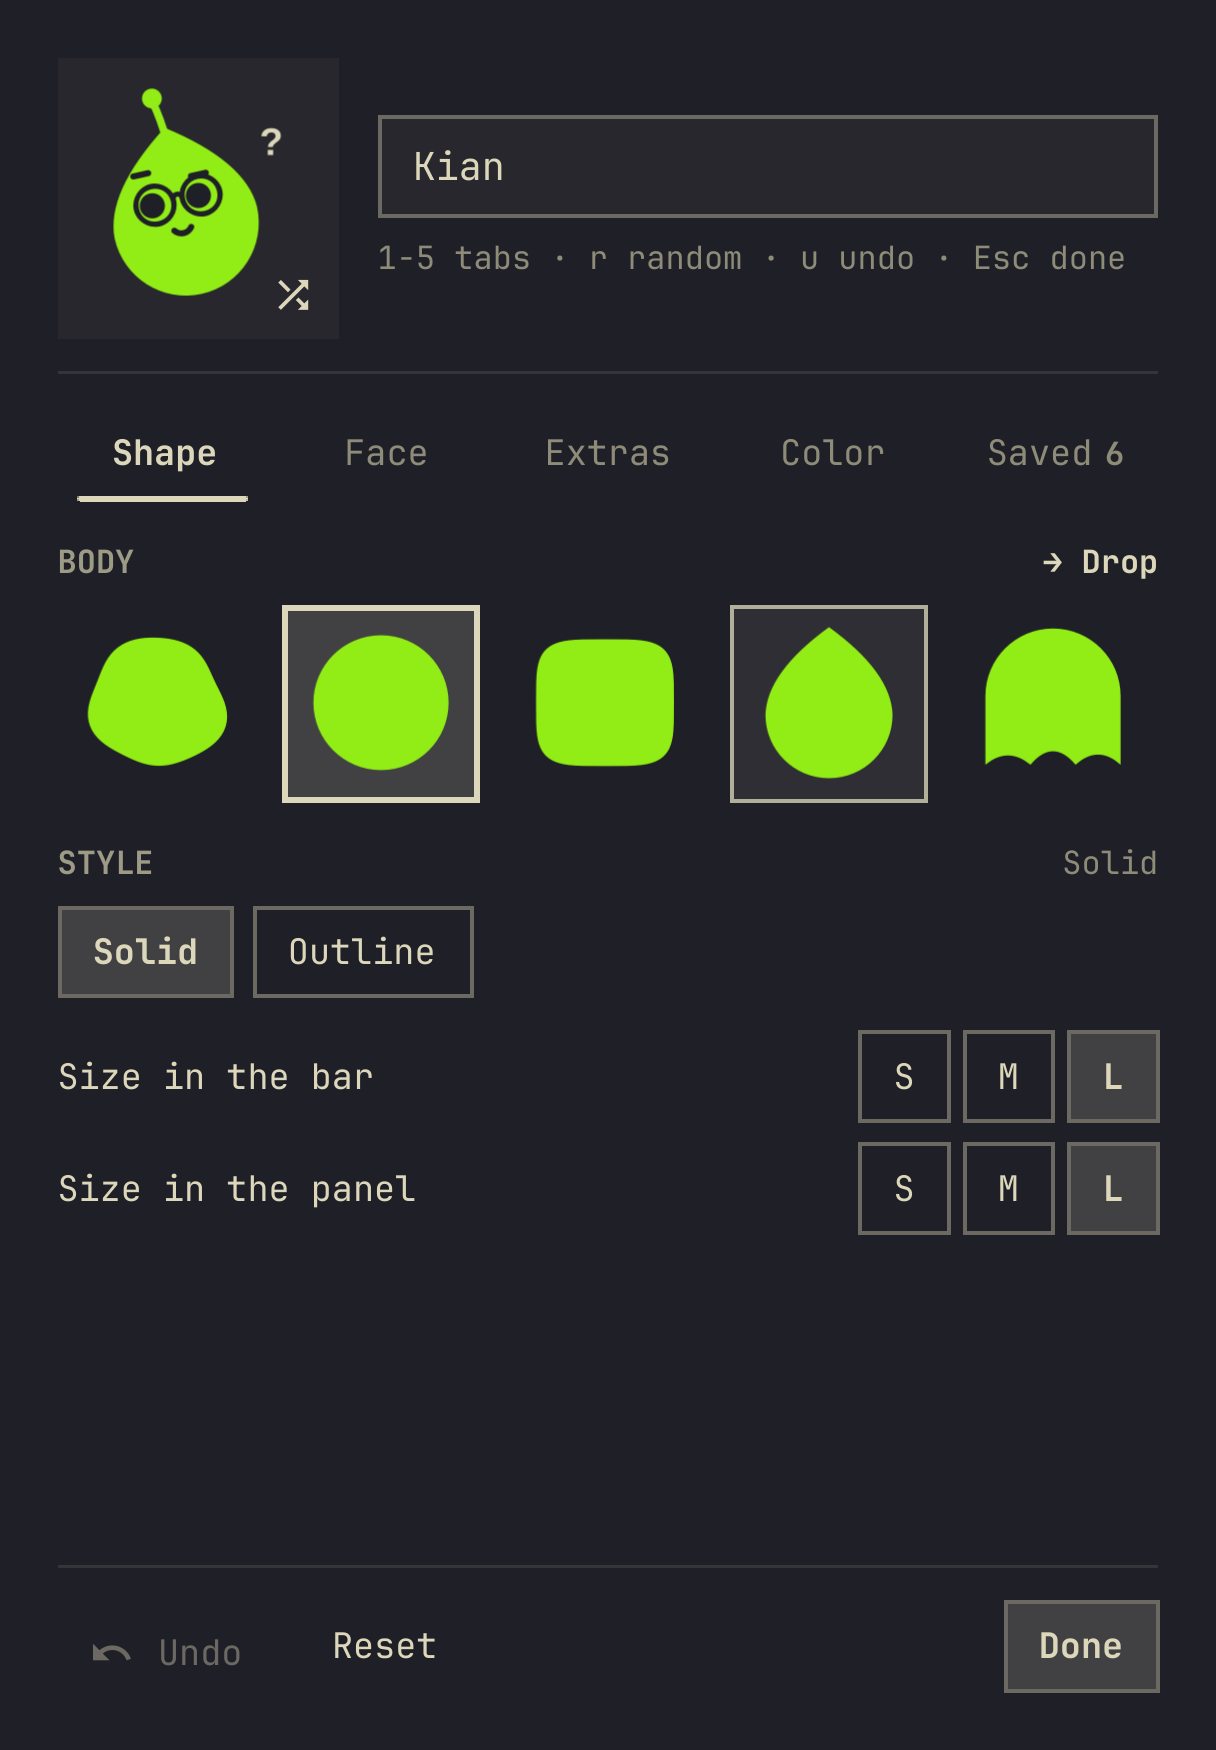
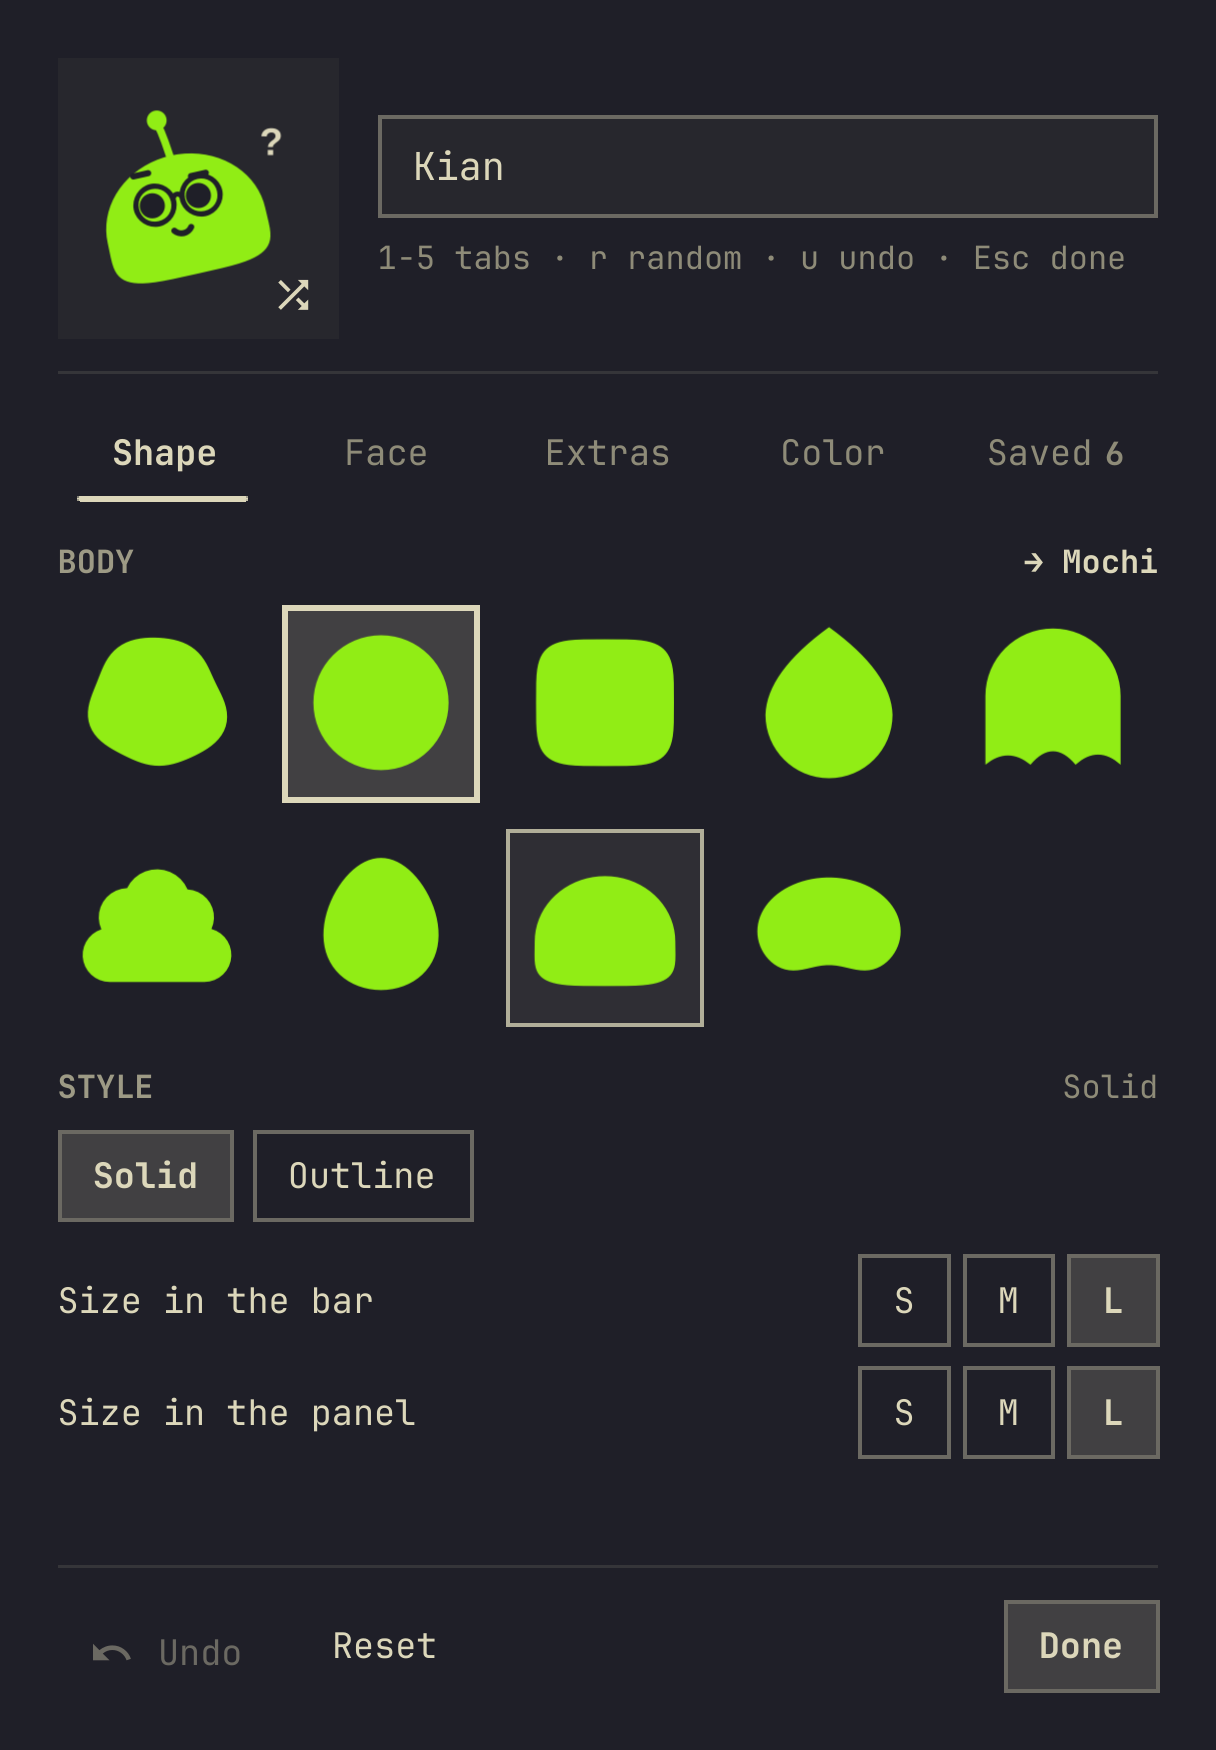
Add cloud, egg, mochi and bean bodies
Cloud traces the outer arcs of five puffs (the top ones swell in turn) over
a flat base; egg widens toward its base; mochi is a dome slumped on a flat
base that jiggles; bean is a kidney bean resting on its two ends. All squash,
breathe and come in solid and outline.

A per-body head fit (top height, side spread, hat scale) replaces the drop
special case, so ears, bows, flowers and hats, seasonal ones included, sit
right on the egg's narrow top and the lower mochi / bean / cloud heads. The
existing bodies keep their exact anchors.

The editor's body chips wrap five to a row (keyboard rows and the Shape page
height follow); shuffle and sanitize pick the new bodies up from the traits.

diff --git a/BlobAvatar.qml b/BlobAvatar.qml
@@ -528,6 +528,50 @@ Item {
         ctx.quadraticCurveTo(x0 - w / 2, bottom - lift * 2, x0 - w, bottom)
       }
       ctx.closePath()
+    } else if (shape === "cloud") {
+      cloudPath(ctx, cx, cy, r, sx, sy, t)
+    } else if (shape === "egg") {
+      // An ellipse whose width grows downward: narrow top, round heavy base.
+      for (var e = 0; e <= 72; e++) {
+        var ea = e / 72 * Math.PI * 2
+        var ec = Math.cos(ea), es = Math.sin(ea)
+        var ex = cx + r * 0.84 * sx * ec * (1 + 0.17 * es)
+        var ey = cy + r * sy * (-0.04 + 0.98 * es)
+        if (e === 0) ctx.moveTo(ex, ey); else ctx.lineTo(ex, ey)
+      }
+      ctx.closePath()
+    } else if (shape === "mochi") {
+      // A soft dome slumped on a flat base, spreading a little toward it like
+      // a daifuku sitting on a plate. The dome jiggles with the wobble clock.
+      var eq = cy + r * 0.22 * sy
+      var dome = r * 0.97 * sy * (1 + 0.025 * root.face.wobble * Math.sin(t * 3))
+      for (var m = 0; m <= 72; m++) {
+        var ma = m / 72 * Math.PI * 2
+        var mc = Math.cos(ma), ms = Math.sin(ma)
+        var mx, my
+        if (ms < 0) {
+          mx = cx + r * 1.04 * sx * mc
+          my = eq + dome * ms
+        } else { // superellipse quadrant: flat bottom, full lower sides
+          mx = cx + r * 1.04 * (1 + 0.05 * ms) * sx * Math.sign(mc) * Math.pow(Math.abs(mc), 0.5)
+          my = eq + r * 0.66 * sy * Math.pow(ms, 0.5)
+        }
+        if (m === 0) ctx.moveTo(mx, my); else ctx.lineTo(mx, my)
+      }
+      ctx.closePath()
+    } else if (shape === "bean") {
+      // A kidney bean lying down: an oval with a dent under the belly, so
+      // it rests on its two rounded ends.
+      for (var v = 0; v <= 90; v++) {
+        var va = v / 90 * Math.PI * 2
+        var vc = Math.cos(va), vs = Math.sin(va)
+        var uy = 0.8 * vs
+        if (vs > 0) uy -= 0.3 * vs * Math.exp(-(vc * vc) / 0.3)
+        var vx = cx + r * sx * 1.06 * vc
+        var vy = cy + r * sy * (0.07 + uy)
+        if (v === 0) ctx.moveTo(vx, vy); else ctx.lineTo(vx, vy)
+      }
+      ctx.closePath()
     } else { // blob: wobbly organic outline
       var steps = 90
       var wa = root.face.wobble
@@ -543,8 +587,68 @@ Item {
     }
   }
 
+  // Cloud puffs as [x, y, radius] in units of r, left to right over the top.
+  // The outline runs along each puff's outer arc, from where it meets the
+  // previous puff to where it meets the next, then closes with a flat base
+  // (the end puffs share their lowest point).
+  readonly property var cloudPuffs: [[-0.7, 0.42, 0.4], [-0.43, -0.14, 0.42], [0, -0.36, 0.5], [0.43, -0.14, 0.42], [0.7, 0.42, 0.4]]
+
+  function cloudPath(ctx, cx, cy, r, sx, sy, t) {
+    var p = root.cloudPuffs
+    var n = p.length
+    var c = []
+    for (var i = 0; i < n; i++) {
+      // The top puffs swell in turn; the end puffs keep the base level.
+      var swell = i === 0 || i === n - 1 ? 0 : 0.03 * root.face.wobble * Math.sin(t * 2 + i * 1.9)
+      c.push({ x: p[i][0], y: p[i][1], r: p[i][2] * (1 + swell) })
+    }
+    // Where two neighbouring puffs cross, on the outside of the cloud.
+    function meet(a, b) {
+      var dx = b.x - a.x, dy = b.y - a.y
+      var d = Math.sqrt(dx * dx + dy * dy)
+      var along = (a.r * a.r - b.r * b.r + d * d) / (2 * d)
+      var h = Math.sqrt(Math.max(0, a.r * a.r - along * along))
+      var mx = a.x + along * dx / d, my = a.y + along * dy / d
+      var p1 = { x: mx - h * dy / d, y: my + h * dx / d }
+      var p2 = { x: mx + h * dy / d, y: my - h * dx / d }
+      var d1 = p1.x * p1.x + (p1.y - 0.2) * (p1.y - 0.2)
+      var d2 = p2.x * p2.x + (p2.y - 0.2) * (p2.y - 0.2)
+      return d1 > d2 ? p1 : p2
+    }
+    var meets = []
+    for (var j = 0; j < n - 1; j++) meets.push(meet(c[j], c[j + 1]))
+    var first = true
+    for (var k = 0; k < n; k++) {
+      var q = c[k]
+      // The end puffs start / stop at their lowest point (angle pi / 2).
+      var from = k === 0 ? Math.PI / 2 : Math.atan2(meets[k - 1].y - q.y, meets[k - 1].x - q.x)
+      var to = k === n - 1 ? Math.PI / 2 : Math.atan2(meets[k].y - q.y, meets[k].x - q.x)
+      while (to <= from) to += Math.PI * 2
+      var steps = Math.max(4, Math.ceil((to - from) / 0.2))
+      for (var s = 0; s <= steps; s++) {
+        var a = from + (to - from) * s / steps
+        var px = cx + r * sx * (q.x + q.r * Math.cos(a))
+        var py = cy + r * sy * (q.y + q.r * Math.sin(a))
+        if (first) { ctx.moveTo(px, py); first = false } else ctx.lineTo(px, py)
+      }
+    }
+    ctx.closePath()
+  }
+
+  // Where things sit on each body's head, in units of r: how high the top
+  // is, how far apart side pieces (ears, horns, bow, flower) go, and how big
+  // hats are, so a narrow egg top or a puffy cloud still wears them well.
+  readonly property var headFit: ({
+    drop: { top: 1.05, spread: 1, hat: 1 },
+    cloud: { top: 0.84, spread: 1, hat: 0.9 },
+    egg: { top: 1.0, spread: 0.72, hat: 0.82 },
+    mochi: { top: 0.75, spread: 1.04, hat: 1 },
+    bean: { top: 0.74, spread: 1, hat: 1 }
+  })
+  readonly property var head: root.headFit[root.bodyShape] || { top: 0.92, spread: 1, hat: 1 }
+
   function headTop(cy, r, sy) {
-    return cy - r * sy * (root.bodyShape === "drop" ? 1.05 : 0.92)
+    return cy - r * sy * root.head.top
   }
 
   function paintExtra(ctx, cx, cy, r, sx, sy, fill) {
@@ -582,7 +686,7 @@ Item {
     } else if (e === "ears" || e === "horns") {
       var tall = e === "ears" ? 0.5 : 0.42
       for (var s = -1; s <= 1; s += 2) {
-        var bx = cx + s * r * 0.55 * sx
+        var bx = cx + s * r * 0.55 * root.head.spread * sx
         ctx.beginPath()
         if (e === "ears") {
           ctx.moveTo(bx - s * r * 0.32, topY + r * 0.35)
@@ -800,7 +904,7 @@ Item {
       ctx.quadraticCurveTo(cx + eyes.gx * 0.5, eyes.ey - r * 0.12, cx + eyes.sp / 2 - gr + eyes.gx * 0.5, eyes.ey - r * 0.04)
       ctx.stroke()
     } else if (a === "bow") {
-      var bx = cx + r * 0.58 * sx, by = headTop(cy, r, sy) + r * 0.22
+      var bx = cx + r * 0.58 * root.head.spread * sx, by = headTop(cy, r, sy) + r * 0.22
       ctx.fillStyle = root.rgba(root.trimColor, 1)
       ctx.save()
       ctx.translate(bx, by)
@@ -818,7 +922,7 @@ Item {
       ctx.fill()
       ctx.restore()
     } else if (a === "flower") {
-      var fx = cx - r * 0.55 * sx, fy = headTop(cy, r, sy) + r * 0.25
+      var fx = cx - r * 0.55 * root.head.spread * sx, fy = headTop(cy, r, sy) + r * 0.25
       ctx.fillStyle = root.rgba(root.foreground, 1)
       for (var i = 0; i < 5; i++) {
         var ang = i / 5 * Math.PI * 2 + root.phase * 0.2
@@ -838,6 +942,14 @@ Item {
     if (h === "") return
     var top = headTop(cy, r, sy)
     var ink = root.rgba(root.trimColor, 1)
+    // Smaller hats on narrow heads, scaled from the crown so they still sit on it.
+    var fit = root.head.hat
+    if (fit !== 1) {
+      ctx.save()
+      ctx.translate(cx, top + r * 0.2)
+      ctx.scale(fit, fit)
+      ctx.translate(-cx, -top - r * 0.2)
+    }
     if (h === "hat") { // top hat
       ctx.fillStyle = ink
       roundRect(ctx, cx - r * 0.62, top + r * 0.02, r * 1.24, r * 0.16, r * 0.08)
@@ -891,6 +1003,7 @@ Item {
       ctx.ellipse(cx + r * 0.12 + r * 0.13 * 0.18 * 4 - r * 0.1, top - r * 0.7, r * 0.2, r * 0.2)
       ctx.fill()
     }
+    if (fit !== 1) ctx.restore()
   }
 
   // Small floating marks: "!" when worried, "z" when tired or asleep, and

diff --git a/PetEditor.qml b/PetEditor.qml
@@ -67,7 +67,7 @@ Item {
   readonly property var defaults: ({ body: "blob", eyes: "capsule", mouth: "none", extra: "none", accessory: "none", cheeks: true, style: "solid", color: "theme" })
 
   readonly property var traits: [
-    { key: "body", options: ["blob", "orb", "squircle", "drop", "ghost"] },
+    { key: "body", options: ["blob", "orb", "squircle", "drop", "ghost", "cloud", "egg", "mochi", "bean"] },
     { key: "eyes", options: ["capsule", "dot", "googly", "pixel", "sleepy"] },
     { key: "mouth", options: ["none", "smile", "o", "cat", "flat"] },
     { key: "extra", options: ["none", "antenna", "leaf", "ears", "horns"] },
@@ -81,7 +81,7 @@ Item {
   }
 
   readonly property var optionLabels: ({
-    body: { blob: "Blob", orb: "Orb", squircle: "Squircle", drop: "Drop", ghost: "Ghost" },
+    body: { blob: "Blob", orb: "Orb", squircle: "Squircle", drop: "Drop", ghost: "Ghost", cloud: "Cloud", egg: "Egg", mochi: "Mochi", bean: "Bean" },
     eyes: { capsule: "Capsule", dot: "Dots", googly: "Googly", pixel: "Pixel", sleepy: "Sleepy" },
     mouth: { none: "None", smile: "Smile", o: "Surprised", cat: "Cat", flat: "Flat" },
     extra: { none: "None", antenna: "Antenna", leaf: "Leaf", ears: "Ears", horns: "Horns" },
@@ -597,7 +597,7 @@ Item {
     rows.push([{ kind: "pet.name", index: 0 }, { kind: "pet.random", index: 0 }])
     rows.push(root.cells("pet.tab", 5))
     if (root.tab === 0) {
-      rows.push(root.cells("pet.body", 5))
+      rows = rows.concat(root.chunks("pet.body", root.optionsOf("body").length, 5))
       rows.push(root.cells("pet.style", 2))
       rows.push(root.cells("pet.barSize", 3))
       rows.push(root.cells("pet.panelSize", 3))
@@ -721,11 +721,13 @@ Item {
   readonly property real swatchSize: Style.space(28)
   readonly property real swatchGap: Math.max(Style.space(4), Math.floor((root.width - 8 * root.swatchSize) / 7))
   readonly property int swatchRows: Math.ceil((root.swatches.length + 1) / 8)
+  // Body chips wrap five to a row, like the other traits.
+  readonly property int bodyRows: Math.ceil(root.optionsOf("body").length / 5)
 
   // Every page but Saved (and Color with the picker open) fits this height,
   // so switching tabs never moves the footer.
   readonly property real fixedPageHeight: {
-    var shape = root.headH + root.headGap + root.chip5 + root.sectionGap + root.headH + root.headGap + root.buttonH
+    var shape = root.headH + root.headGap + root.bodyRows * root.chip5 + (root.bodyRows - 1) * root.gap + root.sectionGap + root.headH + root.headGap + root.buttonH
       + root.sectionGap + 2 * root.buttonH + root.headGap
     var face = 2 * (root.headH + root.headGap + root.chip5 + root.sectionGap) + root.rowH + root.sectionGap
       + root.headH + root.headGap + root.buttonH + root.headGap + root.buttonH
@@ -1429,7 +1431,9 @@ Item {
       trying: section.trying
       value: section.trying ? "→ " + root.optionName(section.key, root.tryOn.val) : root.optionName(section.key, root.value(section.key))
     }
-    Row {
+    // Wraps when a trait has more options than fit in a row (body: 5 + 4).
+    Flow {
+      width: parent.width
       spacing: section.chipGap
       Repeater {
         model: root.optionsOf(section.key)

diff --git a/dev/Harness.qml b/dev/Harness.qml
@@ -137,6 +137,7 @@ ShellRoot {
       spacing: 10
       readonly property var rows: [
         { label: "body", key: "body", options: ["blob", "orb", "squircle", "drop", "ghost"] },
+        { label: "", key: "body", options: ["cloud", "egg", "mochi", "bean"] },
         { label: "eyes", key: "eyes", options: ["capsule", "dot", "googly", "pixel", "sleepy"] },
         { label: "head", key: "extra", options: ["none", "antenna", "leaf", "ears", "horns"] },
         { label: "accessory", key: "accessory", options: ["glasses", "hat", "beanie", "bow", "flower"] }
@@ -218,7 +219,7 @@ ShellRoot {
   // Mock saved pets for the editor captures (never written anywhere).
   readonly property var mockSaved: [
     { name: shell.petName, look: shell.petLook },
-    { name: "Mochi", look: { body: "ghost", eyes: "googly", color: "theme:magenta", accessory: "bow" } },
+    { name: "Mochi", look: { body: "mochi", eyes: "googly", color: "theme:magenta", accessory: "bow" } },
     { name: "Byte", look: { body: "squircle", eyes: "pixel", color: "theme:blue", extra: "antenna" } },
     { name: "Fern", look: { body: "drop", eyes: "sleepy", mouth: "smile", color: "theme:green", extra: "leaf" } },
     { name: "Ozzy", look: { body: "orb", eyes: "dot", mouth: "cat", style: "outline", color: "theme:yellow", extra: "ears" } },
@@ -248,7 +249,7 @@ ShellRoot {
         themePalette: themeColors
         tab: parent.tabIndex
         Component.onCompleted: {
-          var cursor = [{ kind: "pet.body", index: 3 }, { kind: "pet.eyes", index: 2 }, { kind: "pet.accessory", index: 4 },
+          var cursor = [{ kind: "pet.body", index: 7 }, { kind: "pet.eyes", index: 2 }, { kind: "pet.accessory", index: 4 },
                         { kind: "pet.swatch", index: 5 }, { kind: "pet.card", index: 1 }][tab]
           keyTarget = cursor
           syncTryOn(cursor)

diff --git a/README.pt-BR.md b/README.pt-BR.md
@@ -75,8 +75,9 @@ Alertas de limite aparecem em vermelho. Clique no bichinho para fazer carinho.
 bichinho, um botão de sorteio e o nome; embaixo, cinco abas, e Desfazer / Restaurar /
 Pronto no rodapé:
 
-- **Forma**: corpo (bolha, orbe, quadradinho, gota, fantasma), estilo (sólido ou contorno)
-  e o tamanho do bichinho na barra e no painel (Pequeno / Médio / Grande, cada um)
+- **Forma**: corpo (bolha, orbe, quadradinho, gota, fantasma, nuvem, ovo, mochi, feijão),
+  estilo (sólido ou contorno) e o tamanho do bichinho na barra e no painel (Pequeno /
+  Médio / Grande, cada um)
 - **Rosto**: olhos (cápsula, pontinhos, esbugalhados, pixel, sonolentos), boca (nenhuma,
   sorriso, surpresa, gatinho, reta), bochechas coradas e a **personalidade**: Animado (todas
   as reações e pequenas manias), Calmo (reage a você, sem manias à toa) ou Quieto

diff --git a/README.md b/README.md
@@ -72,8 +72,8 @@ next one. Limit alerts are shown in red. Click the pet for a pat.
 (shuffle) button and its name sit on top; five tabs below, and Undo / Reset / Done at the
 bottom:
 
-- **Shape**: body (blob, orb, squircle, drop, ghost), style (solid or outline), and the
-  pet's size in the bar and in the panel (S / M / L each)
+- **Shape**: body (blob, orb, squircle, drop, ghost, cloud, egg, mochi, bean), style
+  (solid or outline), and the pet's size in the bar and in the panel (S / M / L each)
 - **Face**: eyes (capsule, dots, googly, pixel, sleepy), mouth (none, smile, surprised,
   cat, flat), blush cheeks, and the **personality**: Lively (every reaction and little
   fidgets), Calm (reacts to you, no idle fidgets) or Still (poses only, no animated

diff --git a/CHANGELOG.md b/CHANGELOG.md
@@ -4,6 +4,11 @@
 
 ### Pet Studio
 
+- Four new bodies: **Cloud** (puffs that swell in turn), **Egg**, **Mochi** (a soft dome
+  that jiggles) and **Bean** (a kidney bean resting on its ends). Each one squashes and
+  breathes, comes in solid and outline, and wears every head extra, accessory and seasonal
+  hat in the right place (smaller hats and closer ears on the egg's narrow top). The body
+  chips wrap to a second row; shuffle picks the new bodies too.
 - The pet's size in the bar and in the panel are now two settings (S / M / L each), in the
   **Shape** tab; the stage header keeps the pet and its name. Configs and backups with the
   old single `size` use it for both until one is changed.
